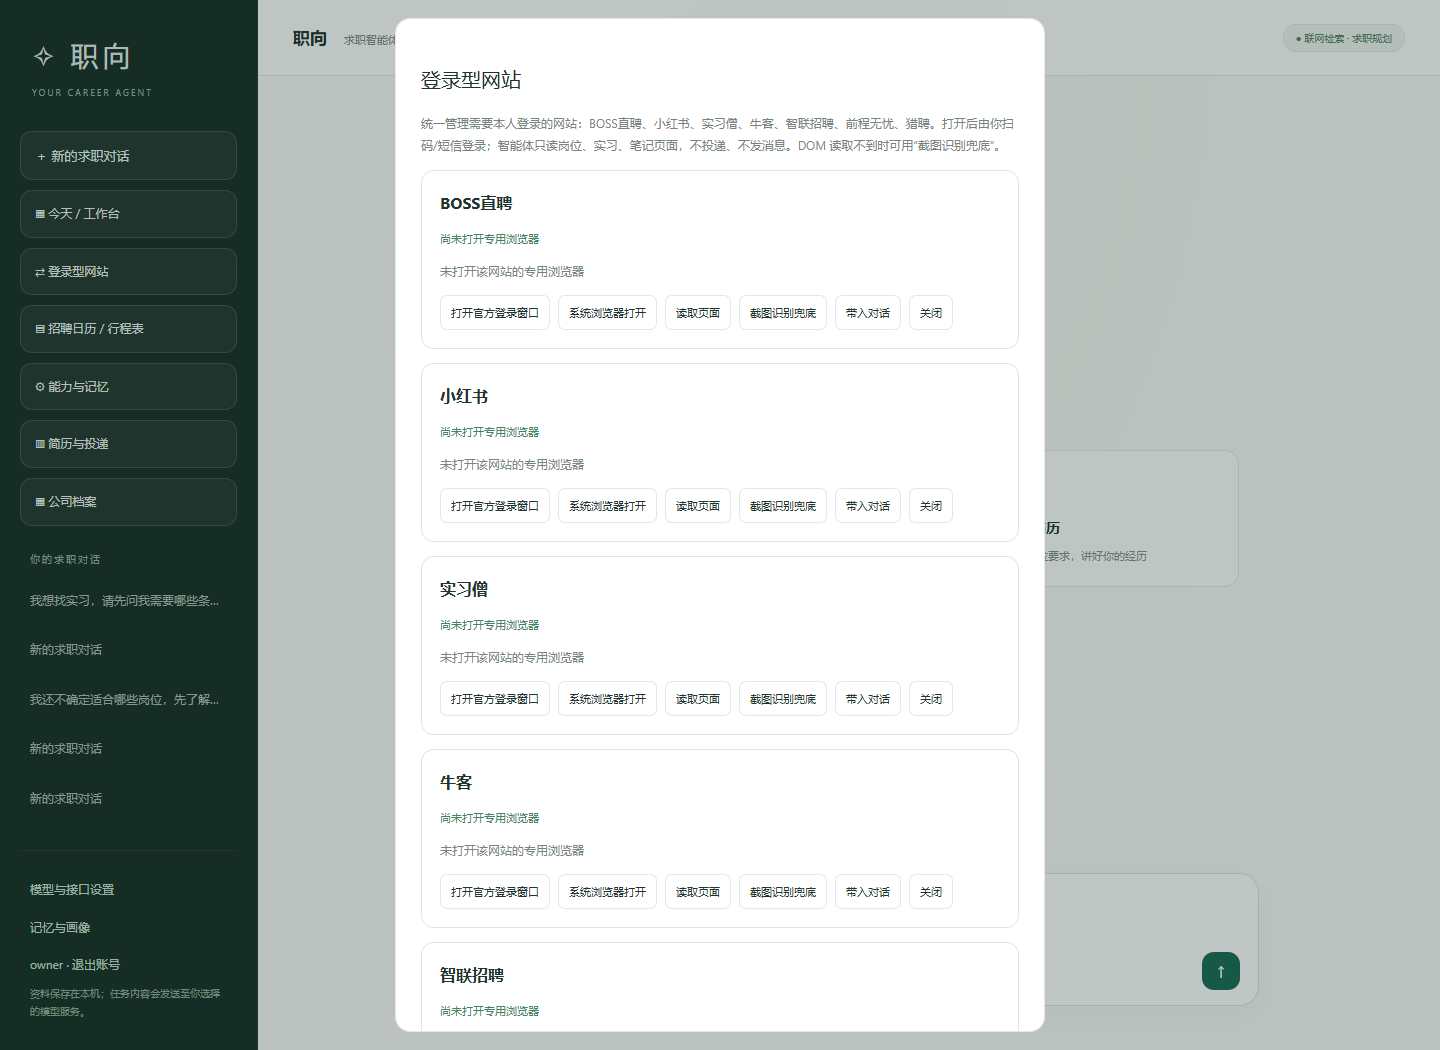
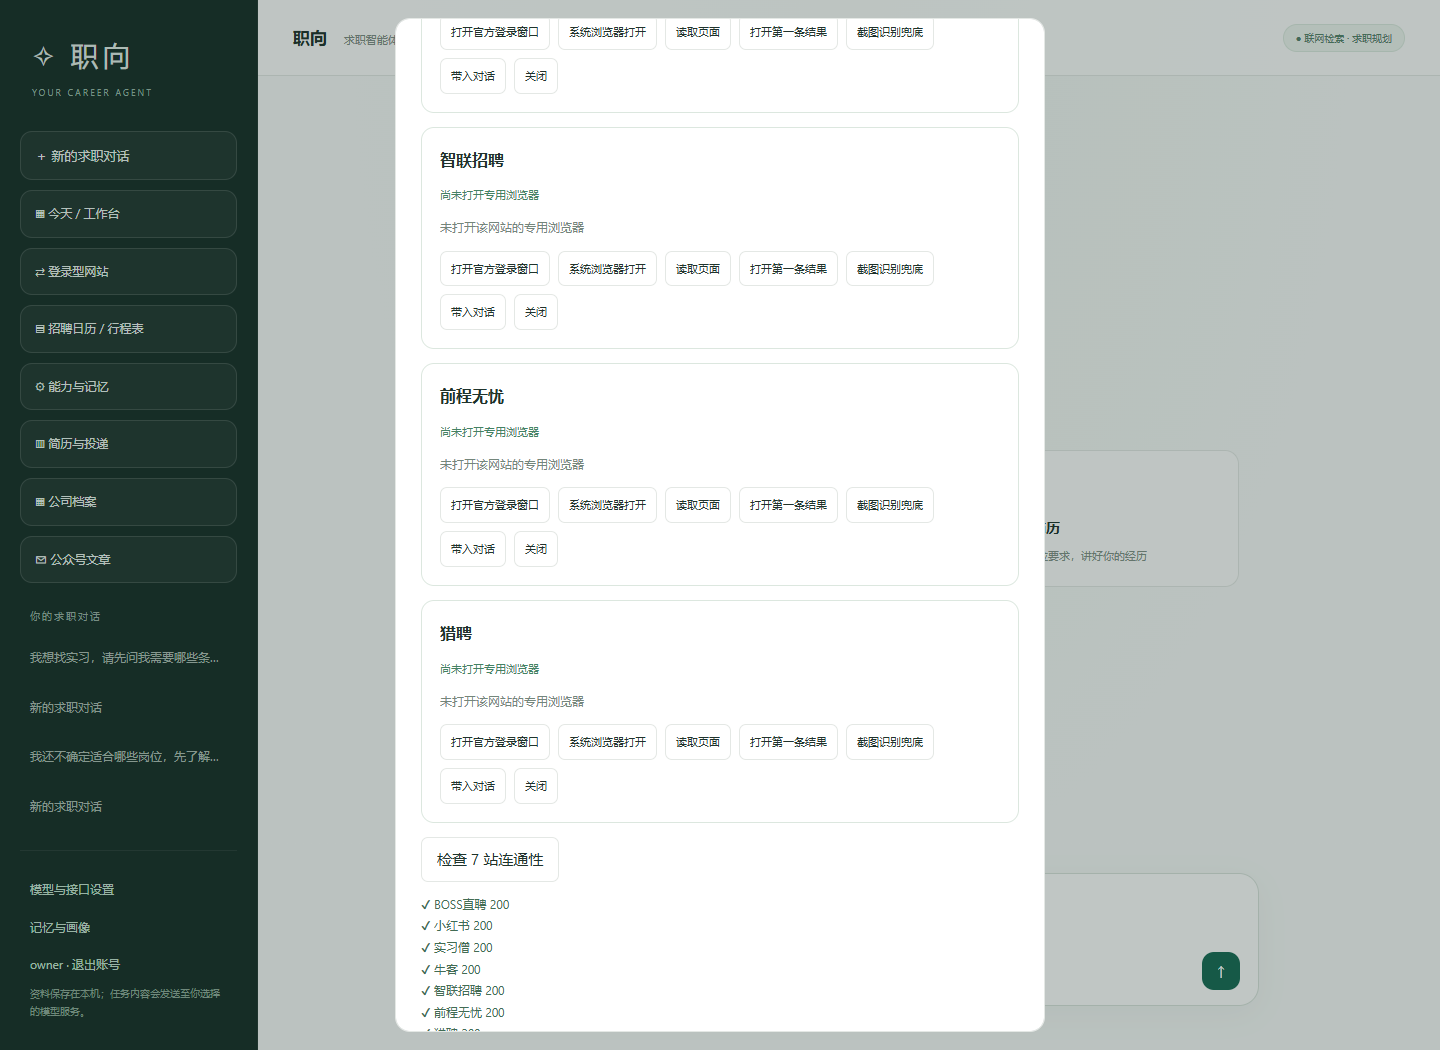
feat(platform): click first result and site connectivity probe
- add openResult: click first search result, fall back to OCR on blocked click
- add probe: HTTP check all 7 site home pages in the panel
- platform UI adds buttons and probe output
- XHS click blocked -> OCR fallback 241 chars; 7/7 home pages 200
- docs 19/tag v3.1.1

diff --git a/src/web/index.html b/src/web/index.html
@@ -31,9 +31,9 @@ async function showPlatforms(){
 const data=await api('platform/status',{});
 const cards=data.platforms.map(p=>{
   const state=p.state==='closed'?'尚未打开专用浏览器':(p.blank?'页面停在 about:blank':'浏览器已打开 · 登录状态需本人确认');
-  return '<section class="platform-card"><h3>'+escape(p.name)+'</h3><p class="state">'+escape(state)+'</p><p>'+escape(p.message)+'</p><div class="platform-actions"><button data-platform-action="open" data-platform="'+p.id+'">打开官方登录窗口</button><button data-platform-action="external" data-platform="'+p.id+'">系统浏览器打开</button><button data-platform-action="read" data-platform="'+p.id+'">读取页面</button><button data-platform-action="ocr" data-platform="'+p.id+'">截图识别兜底</button><button data-platform-action="import" data-platform="'+p.id+'">带入对话</button><button data-platform-action="close" data-platform="'+p.id+'">关闭</button></div></section>';
+  return '<section class="platform-card"><h3>'+escape(p.name)+'</h3><p class="state">'+escape(state)+'</p><p>'+escape(p.message)+'</p><div class="platform-actions"><button data-platform-action="open" data-platform="'+p.id+'">打开官方登录窗口</button><button data-platform-action="external" data-platform="'+p.id+'">系统浏览器打开</button><button data-platform-action="read" data-platform="'+p.id+'">读取页面</button><button data-platform-action="open-result" data-platform="'+p.id+'">打开第一条结果</button><button data-platform-action="ocr" data-platform="'+p.id+'">截图识别兜底</button><button data-platform-action="import" data-platform="'+p.id+'">带入对话</button><button data-platform-action="close" data-platform="'+p.id+'">关闭</button></div></section>';
 }).join('');
-el('#dialog-content').innerHTML='<h2>登录型网站</h2><p class="platform-note">统一管理需要本人登录的网站：BOSS直聘、小红书、实习僧、牛客、智联招聘、前程无忧、猎聘。打开后由你扫码/短信登录；智能体只读岗位、实习、笔记页面，不投递、不发消息。DOM 读取不到时可用“截图识别兜底”。</p>'+cards+'<div id="platform-feedback" role="status"></div><p class="platform-note">若页面停在 about:blank，先点“打开官方登录窗口”重试；仍失败就用“系统浏览器打开”，在普通 Edge 里登录查看，再用“手动导入”记录。智能体不会读取系统浏览器。</p>';
+el('#dialog-content').innerHTML='<h2>登录型网站</h2><p class="platform-note">统一管理需要本人登录的网站：BOSS直聘、小红书、实习僧、牛客、智联招聘、前程无忧、猎聘。打开后由你扫码/短信登录；智能体只读岗位、实习、笔记页面，不投递、不发消息。DOM 读取不到时可用“截图识别兜底”。</p>'+cards+'<div class="row" style="margin:10px 0"><button data-platform-action="probe">检查 7 站连通性</button></div><div id="platform-feedback" role="status"></div><p class="platform-note">若页面停在 about:blank，先点“打开官方登录窗口”重试；仍失败就用“系统浏览器打开”，在普通 Edge 里登录查看，再用“手动导入”记录。智能体不会读取系统浏览器。</p>';
 if(!el('#dialog').open)el('#dialog').showModal();
 }
 el('#platforms').onclick=()=>showPlatforms().catch(e=>showError(e.message));el('#mobile-platforms').onclick=()=>showPlatforms().catch(e=>showError(e.message));
@@ -45,6 +45,7 @@ feedback.textContent=action==='open'?'正在打开官方窗口…':action==='ocr
 const show=(text,url)=>{feedback.textContent=text;if(url){const a=document.createElement('a');a.href=url;a.target='_blank';a.rel='noopener';a.textContent=' 查看截图 ↗';feedback.append(' ',a);}};
 try{
   const result=await api('platform/'+(action==='import'?'read':action),{platform});
+  if(action==='probe'){feedback.textContent=(result.results||[]).map(x=>(x.ok?'✔':'✘')+' '+x.name+' '+x.status+(x.reason?' '+x.reason:'')).join('\n')+'\n'+result.message;return;}
   if(action==='open'||action==='close'){await showPlatforms();el('#platform-feedback').textContent=result.message;}
   else if(action==='import'){
     if(!['readable','unconfirmed','ocr_readable'].includes(result.status)||!result.text)throw new Error(result.message);

diff --git a/docs/plan/19-平台与公众号.md b/docs/plan/19-平台与公众号.md
@@ -19,7 +19,7 @@
 | `liepin` | 猎聘 | 岗位 | `/zhaopin` |
 
 注册表：`src/platform/sites.mjs`。每个站点声明首页、域名、搜索 URL、结果选择器、详情路径、可读路径。
-侧栏「登录型网站」一次性列出全部站点，打开、读取、截图识别、带入对话、关闭都在同一面板。
+侧栏「登录型网站」一次性列出全部站点，打开、读取、**打开第一条结果（元素点击）**、截图识别、带入对话、关闭都在同一面板，另有「检查 7 站连通性」。
 
 ---
 
@@ -53,7 +53,7 @@ DOM 读取失败（正文过少、风控页、渲染未完成）时：
 2. 调用 Windows 自带 `Windows.Media.Ocr`（`scripts/ocr.ps1`）；
 3. 返回 `ocr_readable` + 文字 + 截图链接；OCR 不可用则返回 `needs_manual` + 截图。
 
-UI 的「截图识别兜底」按钮可随时手动触发；截图通过 `/api/platform/screenshot/<site>` 查看。
+UI 的「截图识别兜底」按钮可随时手动触发；「打开第一条结果」会点击当前搜索结果的第一条详情，点击失败则自动转 OCR；截图通过 `/api/platform/screenshot/<site>` 查看。
 
 限制：OCR 有识别误差；截图只保存在本机，不作为平台事实。
 
@@ -94,6 +94,7 @@ UI 的「截图识别兜底」按钮可随时手动触发；截图通过 `/api/p
 - 平台注册表 7 项、URL 白名单/搜索/路径测试通过；
 - 小红书打开后可读到 1672 字；
 - BOSS 打开后 3 秒不再显示 about:blank（watchdog 恢复）；
-- OCR 实测可识别工作台截图中文；
+- OCR 实测可识别工作台截图中文；XHS 点击结果被登录层遮挡时，自动转 OCR 并返回 241 字；
+- 7 站首页连通性检查：7/7 返回 200；
 - 公众号：9 个种子账号；真实文章链接要求验证时返回 `needPaste`；粘贴正文后成功记录并解析出双选会草稿；
 - 全量测试含平台/公众号套件。

diff --git a/docs/plan/18-最终交付清单.md b/docs/plan/18-最终交付清单.md
@@ -1,7 +1,7 @@
-# 18 · 最终交付清单（v3.1.0）
+# 18 · 最终交付清单（v3.1.1）
 
 > 这一篇是“交作业 / 给别人演示”的总入口：现在有什么、证据在哪、怎么跑、怎么回退。
-> 更新：2026-10-25 ｜ 版本：`v3.1.0` ｜ 测试：109 项 ｜ 文档：00–20
+> 更新：2026-10-25 ｜ 版本：`v3.1.1` ｜ 测试：109 项 ｜ 文档：00–20
 
 ---
 
@@ -54,7 +54,7 @@
 | 2.3 日历地图 | 排班/通勤暂停；月历看板 + 项目 + 高德链接 + ICS/CSV/MD | `/recruit`；`docs/20` |
 | 3.1 简历/面试 | 简历多版本、JD、投递、题库、回答、Word | `/resume`；`docs/13` |
 | 多设备 | 局域网实测、Tailscale 文档、Dockerfile | `docs/14` |
-| 版本控制 | main/dev + 17 个标签 | `git tag`；`docs/CHANGELOG.md` |
+| 版本控制 | main/dev + 18 个标签 | `git tag`；`docs/CHANGELOG.md` |
 | 平台读取 | 7 站统一入口、BOSS about:blank 恢复、截图 OCR、系统浏览器兜底 | `docs/19`；`tests/platform.test.mjs` |
 | 一对多 | 活动下挂招聘项目，日历看板展示 | `docs/20`；`tests/projects.test.mjs` |
 
@@ -118,6 +118,7 @@ src/web     5 个页面
 | `v3.0.1` | 新增西南石油大学源（7 校 / 141 场） |
 | `v3.0.2` | 刷新工作台截图 |
 | `v3.1.0` | 7 个登录型网站、截图 OCR、公众号、日历/项目 |
+| `v3.1.1` | 元素点击打开结果、7 站连通性检查 |
 
 回退任意模块：
 

diff --git a/docs/plan/CHANGELOG.md b/docs/plan/CHANGELOG.md
@@ -3,6 +3,16 @@
 > 每个阶段一行，方便你对照"什么时候改了什么、能不能回退"。
 > 回退：`git checkout <tag>` 或 `git reset --hard <tag>`（数据在 `%LOCALAPPDATA%\ZhiXiang`，不受影响）。
 
+## v3.1.1 · 2026-10-25
+
+**平台元素点击与连通性检查**
+
+- 新增「打开第一条结果」：点击当前搜索结果第一条详情，失败转截图 OCR
+- 新增「检查 7 站连通性」：HTTP 探测首页并展示状态
+- XHS 实测：点击被登录层遮挡时自动转 OCR（241 字）
+- 7 站首页探测 7/7 返回 200
+- 回退：`git reset --hard v3.1.0`
+
 ## v3.1.0 · 2026-10-25
 
 **登录型网站、公众号、日历看板与一对多项目**

diff --git a/README.md b/README.md
@@ -1,6 +1,6 @@
 # 职向 v3 · 大学生线下求职智能体
 
-> **当前状态：`v3.1.0`；新增登录型网站/截图 OCR、公众号文章库、活动日历与一对多招聘项目。**
+> **当前状态：`v3.1.1`；登录型网站支持元素点击/截图 OCR/连通性检查，公众号与日历项目已上线。**
 > 先看：[最终交付清单](docs/plan/18-最终交付清单.md) · [平台与公众号](docs/plan/19-平台与公众号.md) · [日历与项目](docs/plan/20-日历与招聘项目.md) · [CHANGELOG](docs/plan/CHANGELOG.md)
 > 数据目录：`%LOCALAPPDATA%\ZhiXiang`（首次启动会自动迁移旧 `.data`）
 
